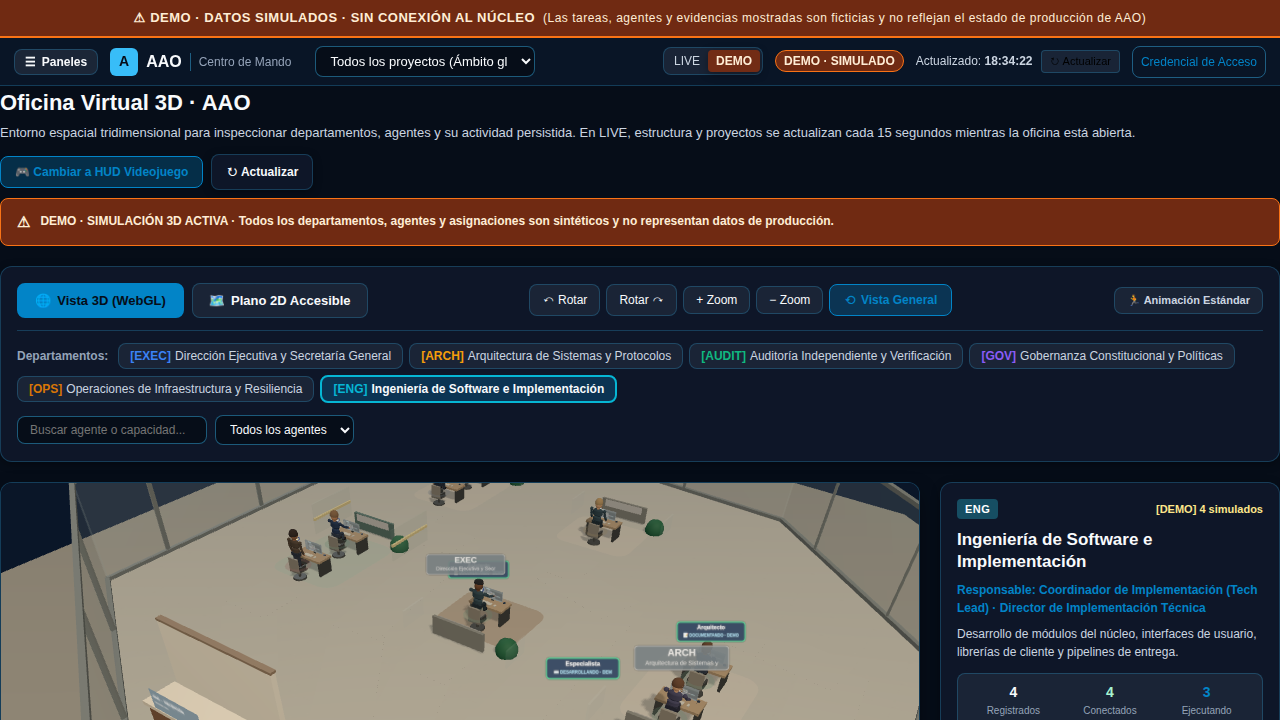
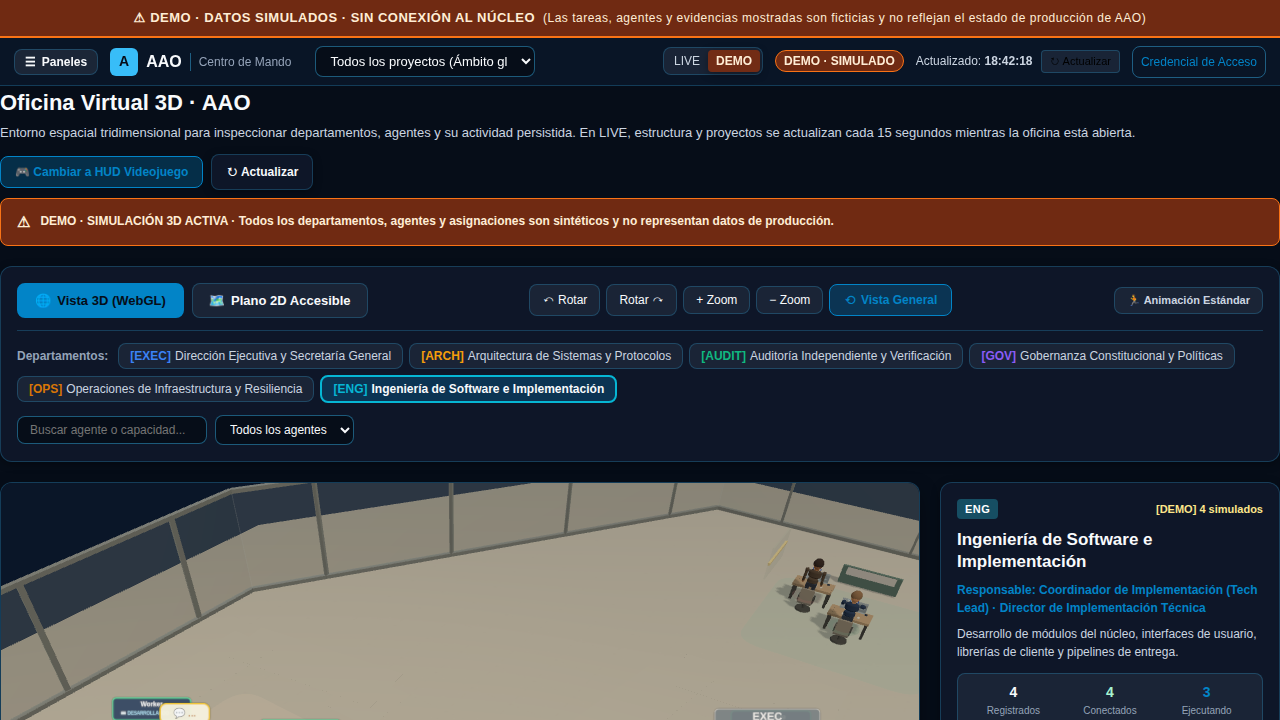
feat(office): pack neighborhood desks organically

diff --git a/frontend/app/src/features/office/liveOfficeLayout.ts b/frontend/app/src/features/office/liveOfficeLayout.ts
@@ -6,7 +6,7 @@ import {
   type OfficeRoomConfig,
   type OfficeZoneKind,
 } from './types';
-import { planOfficeZones } from './spatialPlanningEngine';
+import { planOfficeZones, planWorkNeighborhoodDesks } from './spatialPlanningEngine';
 
 const UNIT_COLORS = [
   ['#1e3a8a', '#3b82f6'],
@@ -682,19 +682,25 @@ export function resolveLiveOrganizationAttribution(
 function computeRoomDimensionsForAgents(
   agentCount: number,
   isUnassignedHolding: boolean,
+  rotationSeed = 'office',
 ): { width: number; depth: number; workstationCapacity: number } {
   // Furniture occupancy comes only from identities present in this projection.
   // Leave a small, discrete organizational marker for empty units; scale occupied
   // neighborhoods from the actual number of desks instead of reserving a 4-seat bay.
   const needed = Math.max(0, agentCount);
-  const columns = needed === 0 ? 0 : Math.min(4, Math.ceil(needed / 2));
-  const rows = needed === 0 ? 0 : Math.ceil(needed / columns);
+  const desks = planWorkNeighborhoodDesks(needed, rotationSeed);
+  const minX = desks.length ? Math.min(...desks.map((desk) => desk.x)) : 0;
+  const maxX = desks.length ? Math.max(...desks.map((desk) => desk.x)) : 0;
+  const minZ = desks.length ? Math.min(...desks.map((desk) => desk.z)) : 0;
+  const maxZ = desks.length ? Math.max(...desks.map((desk) => desk.z)) : 0;
+  const maxAbsX = Math.max(Math.abs(minX), Math.abs(maxX));
+  const maxAbsZ = Math.max(Math.abs(minZ), Math.abs(maxZ));
   const width = needed === 0
     ? (isUnassignedHolding ? 3.8 : 3.2)
-    : Math.max(3.2, (columns - 1) * 1.35 + 2.6);
+    : Math.max(3.2, maxAbsX * 2 + 2.8);
   const depth = needed === 0
     ? 2.8
-    : Math.max(3, (rows - 1) * 1.55 + 2.35);
+    : Math.max(3, maxAbsZ * 2 + 3.0);
   return {
     width: Number(width.toFixed(2)),
     depth: Number(depth.toFixed(2)),
@@ -806,7 +812,7 @@ export function buildCorporateCampusLayout(
     normalizedAgents.some((agent) => agent.unitId === UNASSIGNED_UNIT_ID) ||
     (orderedCanonical.length === 0 && units.length > 0);
   const zoneRequests = orderedCanonical.map((unit) => {
-    const dims = computeRoomDimensionsForAgents(agentCountByUnit.get(unit.id) ?? 0, false);
+    const dims = computeRoomDimensionsForAgents(agentCountByUnit.get(unit.id) ?? 0, false, unit.id);
     return { id: unit.id, parentId: unit.parentId ?? null, width: dims.width, depth: dims.depth };
   });
   if (shouldIncludeUnassignedWing) {
@@ -825,7 +831,7 @@ export function buildCorporateCampusLayout(
   // Guaranteeing |z| >= 4.2 or radial distance >= 6.8 so NO department ever overlaps the Atrium at (0,0)!
   orderedCanonical.forEach((unit) => {
     const countInUnit = agentCountByUnit.get(unit.id) ?? 0;
-    const dims = computeRoomDimensionsForAgents(countInUnit, false);
+    const dims = computeRoomDimensionsForAgents(countInUnit, false, unit.id);
     const [x, z] = [plannedById.get(unit.id)!.x, plannedById.get(unit.id)!.z];
     const [color, accentColor] = UNIT_COLORS[stableColorIndex(unit.id)];
 

diff --git a/frontend/app/src/features/office/spatialPlanningEngine.ts b/frontend/app/src/features/office/spatialPlanningEngine.ts
@@ -15,6 +15,64 @@ export interface PlannedOfficeZone {
   depth: number;
 }
 
+export interface WorkNeighborhoodDeskPlacement {
+  slotIndex: number;
+  x: number;
+  z: number;
+}
+
+/**
+ * Stable sequential circle packing for one desk per observed agent. A prefix
+ * never moves when the department grows; each next desk is placed in the
+ * lowest-cost free gap around the existing neighborhood rather than on a
+ * fixed grid. Spacing is minimum center distance, not a site-wide pitch.
+ */
+export function planWorkNeighborhoodDesks(
+  count: number,
+  rotationSeed = 'office',
+): WorkNeighborhoodDeskPlacement[] {
+  const safeCount = Math.max(0, Math.floor(count));
+  const spacing = 1.48;
+  let hash = 2166136261;
+  for (const char of rotationSeed) {
+    hash ^= char.charCodeAt(0);
+    hash = Math.imul(hash, 16777619);
+  }
+  const rotation = ((hash >>> 0) / 0xffffffff) * Math.PI * 2;
+  const placements: WorkNeighborhoodDeskPlacement[] = [];
+  for (let slotIndex = 0; slotIndex < safeCount; slotIndex += 1) {
+    if (slotIndex === 0) {
+      placements.push({ slotIndex, x: 0, z: 0 });
+      continue;
+    }
+    const candidates = new Map<string, { x: number; z: number; cost: number }>();
+    const phase = rotation + slotIndex * Math.PI * (3 - Math.sqrt(5));
+    for (const anchor of placements) {
+      for (let ray = 0; ray < 32; ray += 1) {
+        const angle = phase + ray * (Math.PI * 2 / 32);
+        const x = Number((anchor.x + Math.cos(angle) * spacing).toFixed(4));
+        const z = Number((anchor.z + Math.sin(angle) * spacing).toFixed(4));
+        if (placements.some((placed) => Math.hypot(x - placed.x, z - placed.z) < spacing - 0.005)) continue;
+        const xs = [...placements.map((placed) => placed.x), x];
+        const zs = [...placements.map((placed) => placed.z), z];
+        const spanX = Math.max(...xs) - Math.min(...xs);
+        const spanZ = Math.max(...zs) - Math.min(...zs);
+        const centroidDistance = Math.hypot(
+          x - xs.reduce((sum, value) => sum + value, 0) / xs.length,
+          z - zs.reduce((sum, value) => sum + value, 0) / zs.length,
+        );
+        const key = `${x},${z}`;
+        const shapePenalty = Math.abs(spanX - spanZ) * 4;
+        candidates.set(key, { x, z, cost: spanX * spanZ + shapePenalty + (spanX + spanZ) * 0.18 + centroidDistance * 0.08 });
+      }
+    }
+    const chosen = [...candidates.values()].sort((a, b) => a.cost - b.cost || a.x - b.x || a.z - b.z)[0];
+    if (!chosen) throw new Error(`Unable to pack desk ${slotIndex} in work neighborhood`);
+    placements.push({ slotIndex, x: chosen.x, z: chosen.z });
+  }
+  return placements;
+}
+
 // A continuous aisle, not a department-to-department grid pitch. The zone
 // contract is retained for consumers during migration to desk-level planning.
 // 1.35m circulation width plus a 0.4m service/avoidance margin.

diff --git a/frontend/app/src/test/live-office-layout.test.ts b/frontend/app/src/test/live-office-layout.test.ts
@@ -10,6 +10,7 @@ import {
 } from '../features/office/liveOfficeLayout';
 import { buildDepartmentInteriorLayout } from '../features/office/engine/officeLifeEngine';
 import {
+  planWorkNeighborhoodDesks,
   planOfficeZones,
   WORK_NEIGHBORHOOD_CLEARANCE_METERS,
 } from '../features/office/spatialPlanningEngine';
@@ -67,6 +68,24 @@ describe('buildLiveOfficeRooms', () => {
 });
 
 describe('capacity-aware spatial layout', () => {
+  it('packs exactly one stable, separated desk per assigned agent in an organic neighborhood', () => {
+    const one = planWorkNeighborhoodDesks(1, 'unit-eng');
+    const three = planWorkNeighborhoodDesks(3, 'unit-eng');
+    const eight = planWorkNeighborhoodDesks(8, 'unit-eng');
+    expect(one).toHaveLength(1);
+    expect(three).toHaveLength(3);
+    expect(eight).toHaveLength(8);
+    expect(eight.slice(0, 3)).toEqual(three);
+    expect(planWorkNeighborhoodDesks(8, 'unit-eng')).toEqual(eight);
+    expect(new Set(eight.map(({ x }) => x)).size).toBeGreaterThan(4);
+    expect(new Set(eight.map(({ z }) => z)).size).toBeGreaterThan(4);
+    for (let left = 0; left < eight.length; left += 1) {
+      for (let right = left + 1; right < eight.length; right += 1) {
+        expect(Math.hypot(eight[left].x - eight[right].x, eight[left].z - eight[right].z)).toBeGreaterThanOrEqual(1.35);
+      }
+    }
+  });
+
   it('selects architectural modules from declared nature rather than unit IDs or hierarchy', () => {
     const layout = buildCorporateCampusLayout([
       unit('unit-audit', 'AUDIT', 'Equipo de Investigación'),
@@ -118,8 +137,8 @@ describe('capacity-aware spatial layout', () => {
       expect(room.depth).toBeLessThan(4);
     }
     if (count === 8) {
-      expect(room.width).toBeLessThan(8);
-      expect(room.depth).toBeLessThan(5);
+      expect(room.width).toBeLessThan(9);
+      expect(room.depth).toBeLessThan(10);
     }
   });
 

diff --git a/frontend/app/src/features/office/engine/officeLifeEngine.ts b/frontend/app/src/features/office/engine/officeLifeEngine.ts
@@ -1,5 +1,6 @@
 import type { AgentIdentity } from '../../../domain/models';
 import type { OfficeLabelLodTier, OfficeRoomConfig } from '../types';
+import { planWorkNeighborhoodDesks } from '../spatialPlanningEngine';
 
 /**
  * High-level visual activity state for an agent in the 3D Office.
@@ -426,16 +427,13 @@ export function buildDepartmentInteriorLayout(room: OfficeRoomConfig): Departmen
   // A missing capacity is a legacy rendering contract (e.g. static OFFICE_ROOMS fixtures).
   // Data-driven LIVE/DEMO layouts always set an exact observed count, including zero.
   const capacity = Math.max(0, room.workstationCapacity ?? 4);
-  const columns = Math.max(1, Math.min(4, Math.ceil(capacity / 2)));
-  const rows = Math.max(1, Math.ceil(capacity / columns));
-  const localConfigs = Array.from({ length: capacity }, (_, slotIndex) => {
-    const row = Math.floor(slotIndex / columns);
-    const column = slotIndex % columns;
-    const countInRow = Math.min(columns, capacity - row * columns);
-    const deskX = (column - (countInRow - 1) / 2) * 1.35;
-    const deskZ = (row - (rows - 1) / 2) * 1.55;
-    return { deskX, deskZ, chairX: deskX, chairZ: deskZ + 0.55, facing: Math.PI };
-  });
+  const localConfigs = planWorkNeighborhoodDesks(capacity, room.id).map(({ x, z }) => ({
+    deskX: x,
+    deskZ: z,
+    chairX: x,
+    chairZ: z + 0.55,
+    facing: Math.PI,
+  }));
 
   const workstations: WorkstationSlot[] = localConfigs.map((cfg, idx) => ({
     slotIndex: idx,
@@ -591,7 +589,8 @@ export function planOfficeLifePlacements(
         neighborhoodWaypoint,
         doorWaypoint,
         aisleWaypoint,
-      ];
+      ].filter((point, index, all) => index === 0 ||
+        Math.hypot(point.x - all[index - 1].x, point.z - all[index - 1].z) > 0.01);
 
       if (activity.kind === 'WALKING') {
         isSeated = false;
